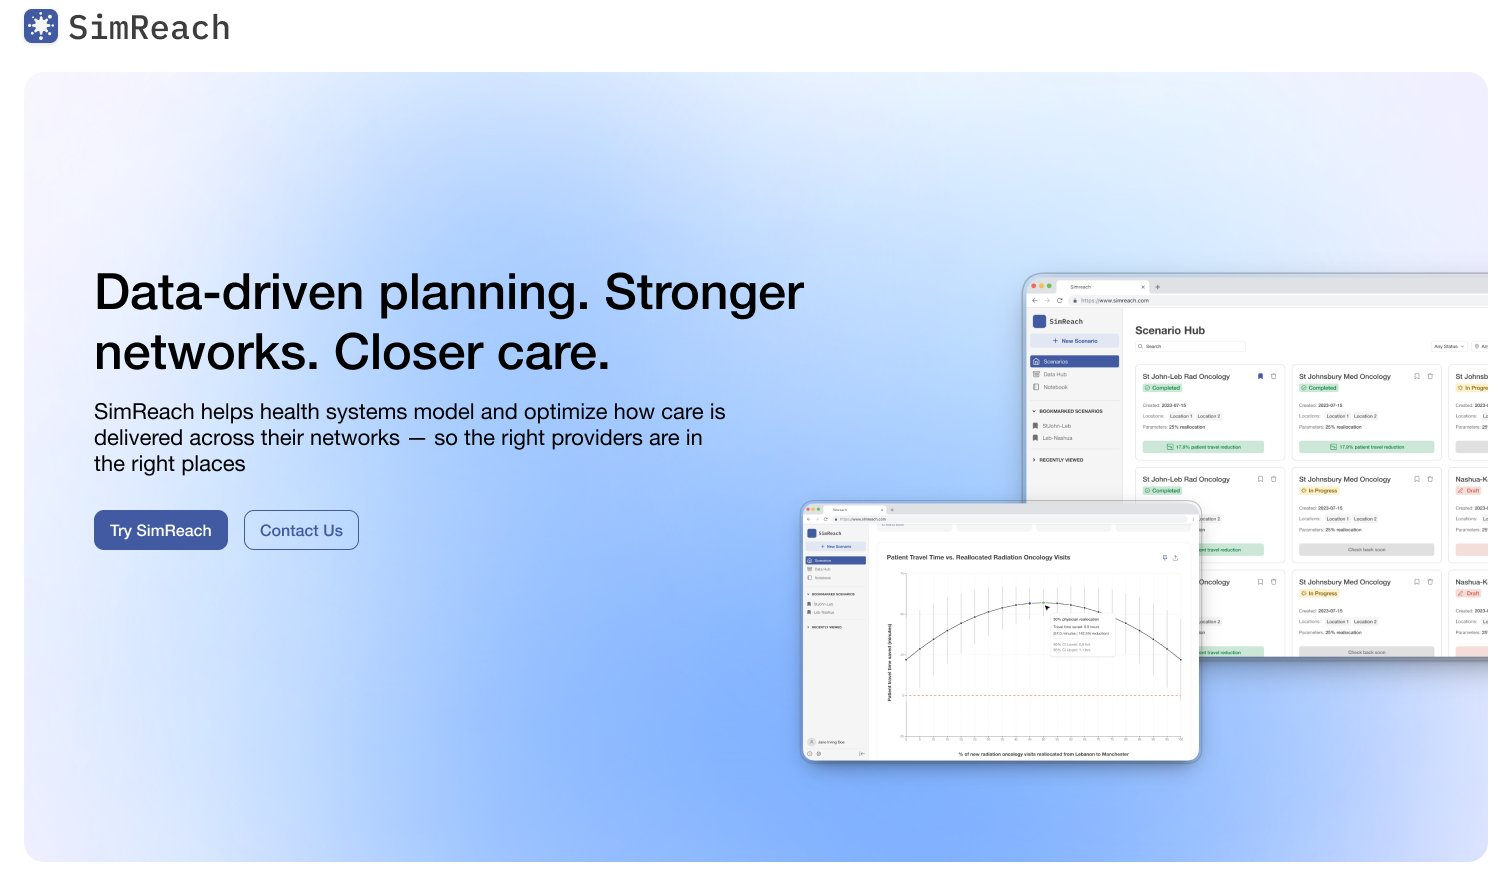
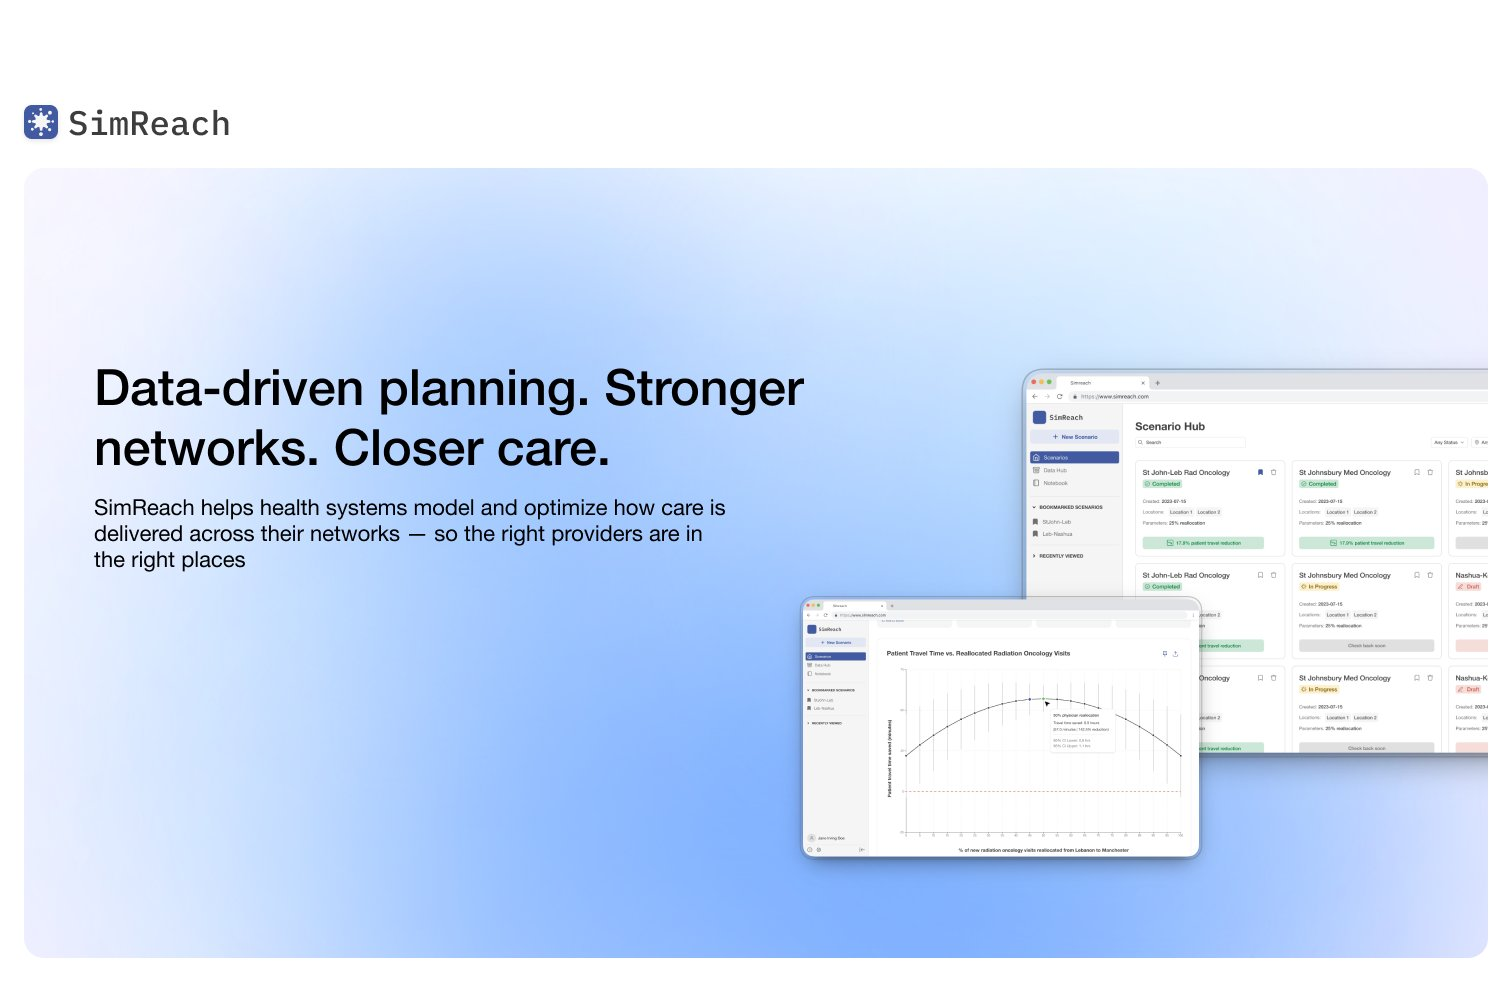
Update SimReach hero image, blend manuscript stat, fix before/after sizing, trim limitations note

diff --git a/src/pages/SimReach.jsx b/src/pages/SimReach.jsx
@@ -54,7 +54,7 @@ export default function SimReach() {
           and browser chrome removed). */}
       <ImagePlaceholder
         label="SimReach landing page"
-        aspect="1512 / 886"
+        aspect="1512 / 982"
         src={heroLanding}
       />
       <p style={{ fontSize: '13px', color: 'var(--ink-soft)', margin: '10px 0 50px' }}>
@@ -66,9 +66,9 @@ export default function SimReach() {
           { value: '50%', label: 'optimal reallocation' },
           { value: '24%', label: 'avg. travel time savings' },
           { value: '394', label: 'patients with improved access' },
-          { value: '95%', label: 'confidence interval' },
+          { value: '55 hrs', label: 'total patient time saved' },
         ]}
-        note="Figures from a real Lebanon → Manchester, NH radiation oncology reallocation scenario, shown later in section 3."
+        note="Reallocation, travel-savings, and patient-impact figures from a real Lebanon → Manchester, NH radiation oncology scenario in the live app, shown later in section 3. The 55-hour total (95% CI: 34–71) is the validated result for the same scenario published in Scodari et al., Dartmouth Health's underlying simulation study."
       />
 
       <div style={{
@@ -173,8 +173,8 @@ export default function SimReach() {
             </p>
 
             <BeforeAfter
-              before={{ label: 'Early layout — gridlines, straight segments, unused Data Table panel', caption: 'An earlier pass at the same idea — the chart reads more like raw output, and the empty panel on the right never got used.', src: beforeMetricCards, aspect: '1512 / 1300' }}
-              after={{ label: 'Shipped — smoothed curve, no dead UI', caption: 'The Data Table panel is gone, the curve is smoothed, and the layout commits fully to the metric-cards-first hierarchy.', src: afterMetricCards, aspect: '2849 / 1750' }}
+              before={{ label: 'Early layout — gridlines, straight segments, unused Data Table panel', caption: 'An earlier pass at the same idea — the chart reads more like raw output, and the empty panel on the right never got used.', src: beforeMetricCards, aspect: '3 / 2' }}
+              after={{ label: 'Shipped — smoothed curve, no dead UI', caption: 'The Data Table panel is gone, the curve is smoothed, and the layout commits fully to the metric-cards-first hierarchy.', src: afterMetricCards, aspect: '3 / 2' }}
             />
 
             <p style={{ marginTop: '8px', marginBottom: '12px' }}>
@@ -244,7 +244,6 @@ export default function SimReach() {
                   body: 'The Data Hub\u2019s "94% data quality" score is a placeholder. A more honest version would use qualitative tiers grounded in concrete rules rather than implying false precision.',
                 },
               ]}
-              note="I'd rather show that I can recognize the gap between shipped and finished than pretend the v1 is the final word."
             />
           </Section>
 